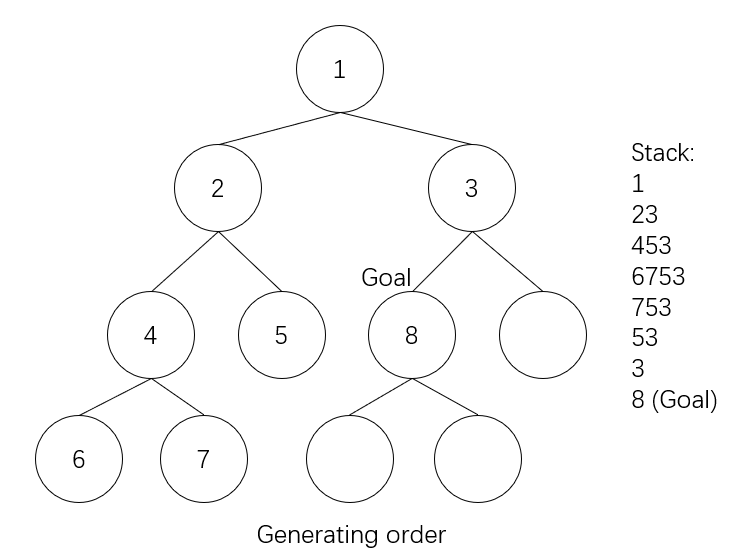
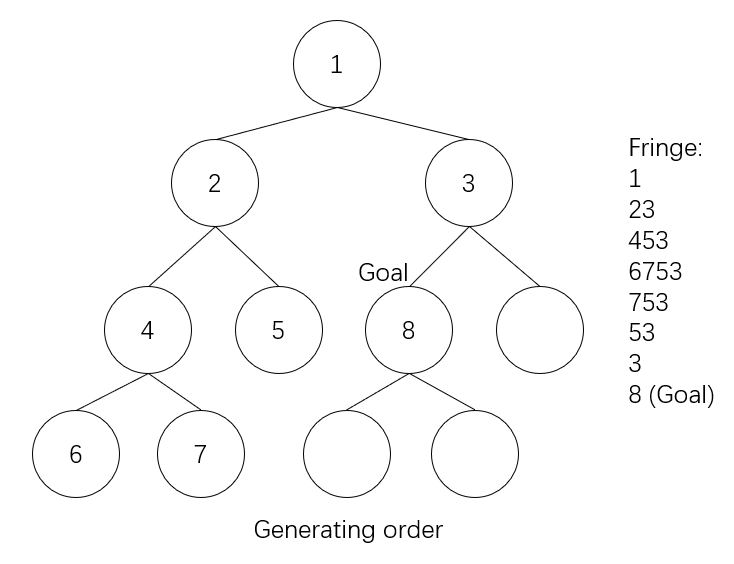
update

diff --git a/_posts/2018-02-26-dfslabel.md b/_posts/2018-02-26-dfslabel.md
@@ -19,7 +19,7 @@ Recently, I had a discussion with the TA of CS161 (Fundamental of Artificial Int
 
 But what about DFS? What is its generating order?
 
-The answer is a little tricky. But if you have learnt about it in class, you should have the right answer. If we use the stack data structure to implement the algorithm, the order would be like this.
+The answer is a little tricky. But if you have learnt about it in class, you should have the right answer. If we use the stack data structure to implement the algorithm (note that we use a special concept 'fringe', which is similar to, but different from stack, to hold the generated nodes), the order would be like this.
 
 <center>
 <figure>
